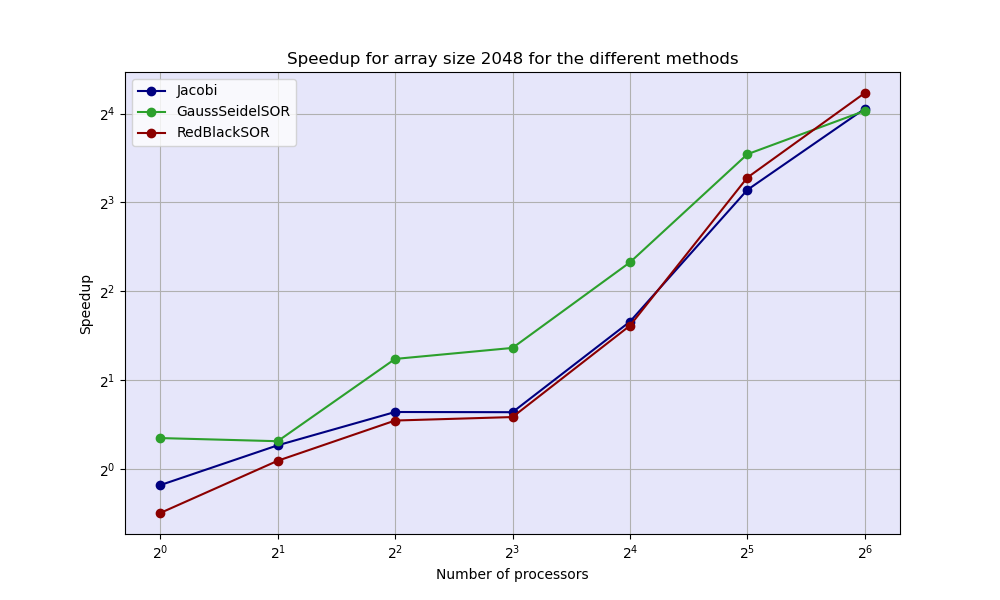
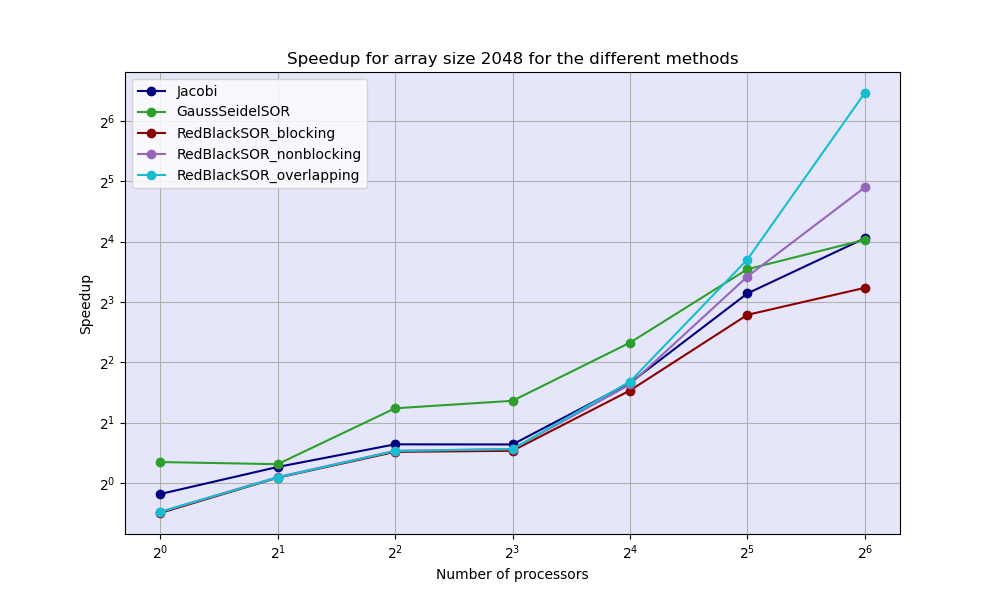
plots with all versions of red black sor

diff --git a/a4/heat_transfer/results/parlab/non_conv_total.py b/a4/heat_transfer/results/parlab/non_conv_total.py
@@ -1,0 +1,197 @@
+import matplotlib.pyplot as plt
+import matplotlib.colors as mcolors
+import numpy as np
+
+filename = "outrunjob_serial.txt"
+with open(filename, "r") as file:
+    data = file.read()
+    
+methods = ["Jacobi", "GaussSeidelSOR", "RedBlackSOR_blocking", "RedBlackSOR_nonblocking", "RedBlackSOR_overlapping"]
+sizes = [2048, 4096, 6144]
+serial_time = {size: {} for size in sizes}
+
+
+for line in data.splitlines():
+    words = line.split()
+    if len(words) < 3:
+        continue
+    method = words[0]
+    size = int(words[2])
+    if size == 512:
+        continue
+    time = float(words[8])
+    if method == "RedBlackSOR":
+        serial_time[size]["RedBlackSOR_blocking"] = time
+        serial_time[size]["RedBlackSOR_nonblocking"] = time
+        serial_time[size]["RedBlackSOR_overlapping"] = time
+    else:
+        serial_time[size][method] = time
+    
+processors = [1, 2, 4, 8, 16, 32, 64]
+parallel_time = {size: {} for size in sizes}
+comp_time = {size: {} for size in sizes}
+
+filename = "outrunjob_no_conv.txt"
+with open(filename, "r") as file:
+    data = file.read()
+    
+for line in data.splitlines():
+    words = line.split()
+    if len(words) < 15:
+        continue
+    method = words[0]
+    #method name fixing
+    if method == "Gauss":
+        method = "GaussSeidelSOR"
+    elif method == "RedBlack":
+        #get results from other file
+        continue
+        
+    #size fixing
+    if method == "Jacobi":
+        size = int(words[2])
+    elif method == "GaussSeidelSOR":
+        size = int(words[4])
+    elif method == "RedBlackSOR":
+        size = int(words[3])
+    time = float(words[-3])
+    if method in parallel_time[size]:
+        parallel_time[size][method].append(time)
+    else:
+        parallel_time[size][method] = [time]
+    time = float(words[-5])
+    if method in comp_time[size]:
+        comp_time[size][method].append(time)
+    else:
+        comp_time[size][method] = [time]
+        
+filename = "red_black_iter.out"
+with open(filename, "r") as file:
+    data = file.read()
+    
+for i, line in enumerate(data.splitlines()):
+    words = line.split()
+    if len(words) < 3: continue
+    if words[-2] == "midpoint":
+        if i < 66 : method = "RedBlackSOR_blocking"
+        elif i < 132 : method = "RedBlackSOR_nonblocking"
+        else: method = "RedBlackSOR_overlapping"
+        size = int(words[2])
+        time = float(words[-3])
+        if method in parallel_time[size]:
+            parallel_time[size][method].append(time)
+        else:
+            parallel_time[size][method] = [time]
+    elif words[0] == "ComputationTime:" : 
+        time = float(words[1])
+        if method in comp_time[size]:
+            comp_time[size][method].append(time)
+        else:
+            comp_time[size][method] = [time]
+            
+#plotting
+for size in sizes:
+    colours = ['#000080', '#2CA02C', '#8B0000', '#9467BD', '#17becf']
+    plt.figure(figsize=(10, 6))
+    plt.gca().set_facecolor("#e6e6fa")
+    for i, method in enumerate(methods):
+        plt.plot(processors, [serial_time[size][method] / time for time in parallel_time[size][method]], marker = 'o',label=method, color=colours[i])
+    plt.xlabel("Number of processors")
+    plt.ylabel("Speedup")
+    plt.title(f"Speedup for array size {size} for the different methods")
+    plt.legend()
+    plt.xscale('log', base=2)
+    plt.yscale('log', base=2)
+    plt.grid()
+    plt.savefig(f"speedup_{size}.png")
+    plt.close()
+
+#barplots for each array size for times for 8,16,32,64 processors only
+#1 bar for each combination of array size and processors
+selected_processors = [8, 16, 32, 64]
+
+transparency = 0.2  # 80% transparent
+
+transparent_colours = [mcolors.to_rgba(c, transparency) for c in colours]
+
+# Create a wider figure
+plt.figure(figsize=(12, 8))
+plt.gca().set_facecolor("#e6e6fa")
+
+# Define positions for groups
+num_sizes = len(sizes)
+num_processors = len(selected_processors)
+group_width = 0.6  # Space for each (size, processor) group
+bar_width = group_width / len(methods)  # Space for each method within a group
+
+# X-axis positions for groups
+group_positions = np.arange(num_sizes * num_processors) * 1.5  # Spacing groups apart
+
+#keep everything except the first 3 element in the parallel times
+for size in sizes:
+    for method in methods:
+        parallel_time[size][method] = parallel_time[size][method][3:]
+        comp_time[size][method] = comp_time[size][method][3:]
+
+# Plot stacked bars
+for i, size in enumerate(sizes):
+    for j, proc in enumerate(selected_processors):
+        group_index = i * num_processors + j  # Position in groups
+        for k, method in enumerate(methods):
+            x_pos = group_positions[group_index] + (k - 1) * bar_width  # Center methods inside group
+            
+            total_time = parallel_time[size][method][j]
+            computation_time = comp_time[size][method][j]
+            communication_time = total_time - computation_time  # Remaining part
+
+            # Bottom part (computation)
+            plt.bar(x_pos, computation_time, color=colours[k], width=bar_width, label=method if i == 0 and j == 0 else "")
+
+            # Top part (communication)
+            plt.bar(x_pos, communication_time, bottom=computation_time, color=transparent_colours[k], width=bar_width, alpha=0.5)
+
+# Adjust x-ticks
+plt.xticks(group_positions, 
+           [f"{size}, {proc}P" for size in sizes for proc in selected_processors], 
+           rotation=45, ha="right")
+
+plt.xlabel("Array size, Number of Processors")
+plt.ylabel("Time (s)")
+plt.title("Execution Time Breakdown for Different Array Sizes and Processor Counts")
+plt.legend()
+plt.grid(axis="y")
+
+plt.savefig("execution_time_breakdown.png")
+plt.close()
+
+#now one barplot for each size
+for size in sizes:
+    plt.figure(figsize=(10, 6))
+    plt.gca().set_facecolor("#e6e6fa")
+    for i, proc in enumerate(selected_processors):
+        group_index = i
+        for j, method in enumerate(methods):
+            x_pos = group_positions[group_index] + (j - 1) * bar_width  # Center methods inside group
+            
+            total_time = parallel_time[size][method][i]
+            computation_time = comp_time[size][method][i]
+            communication_time = total_time - computation_time  # Remaining part
+
+            # Bottom part (computation)
+            plt.bar(x_pos, computation_time, color=colours[j], width=bar_width, label=method if i == 0 else "")
+
+            # Top part (communication)
+            plt.bar(x_pos, communication_time, bottom=computation_time, color=transparent_colours[j], width=bar_width, alpha=0.5)
+
+    # Adjust x-ticks
+    plt.xticks(group_positions[:num_processors], 
+               [f"{size}, {proc}P" for proc in selected_processors], 
+               rotation=45, ha="right")
+
+    plt.xlabel("Array size, Number of Processors")
+    plt.ylabel("Time (s)")
+    plt.title(f"Execution Time Breakdown for Array Size {size}")
+    plt.legend()
+    plt.grid(axis="y")
+
+    plt.savefig(f"execution_time_breakdown_{size}.png")
